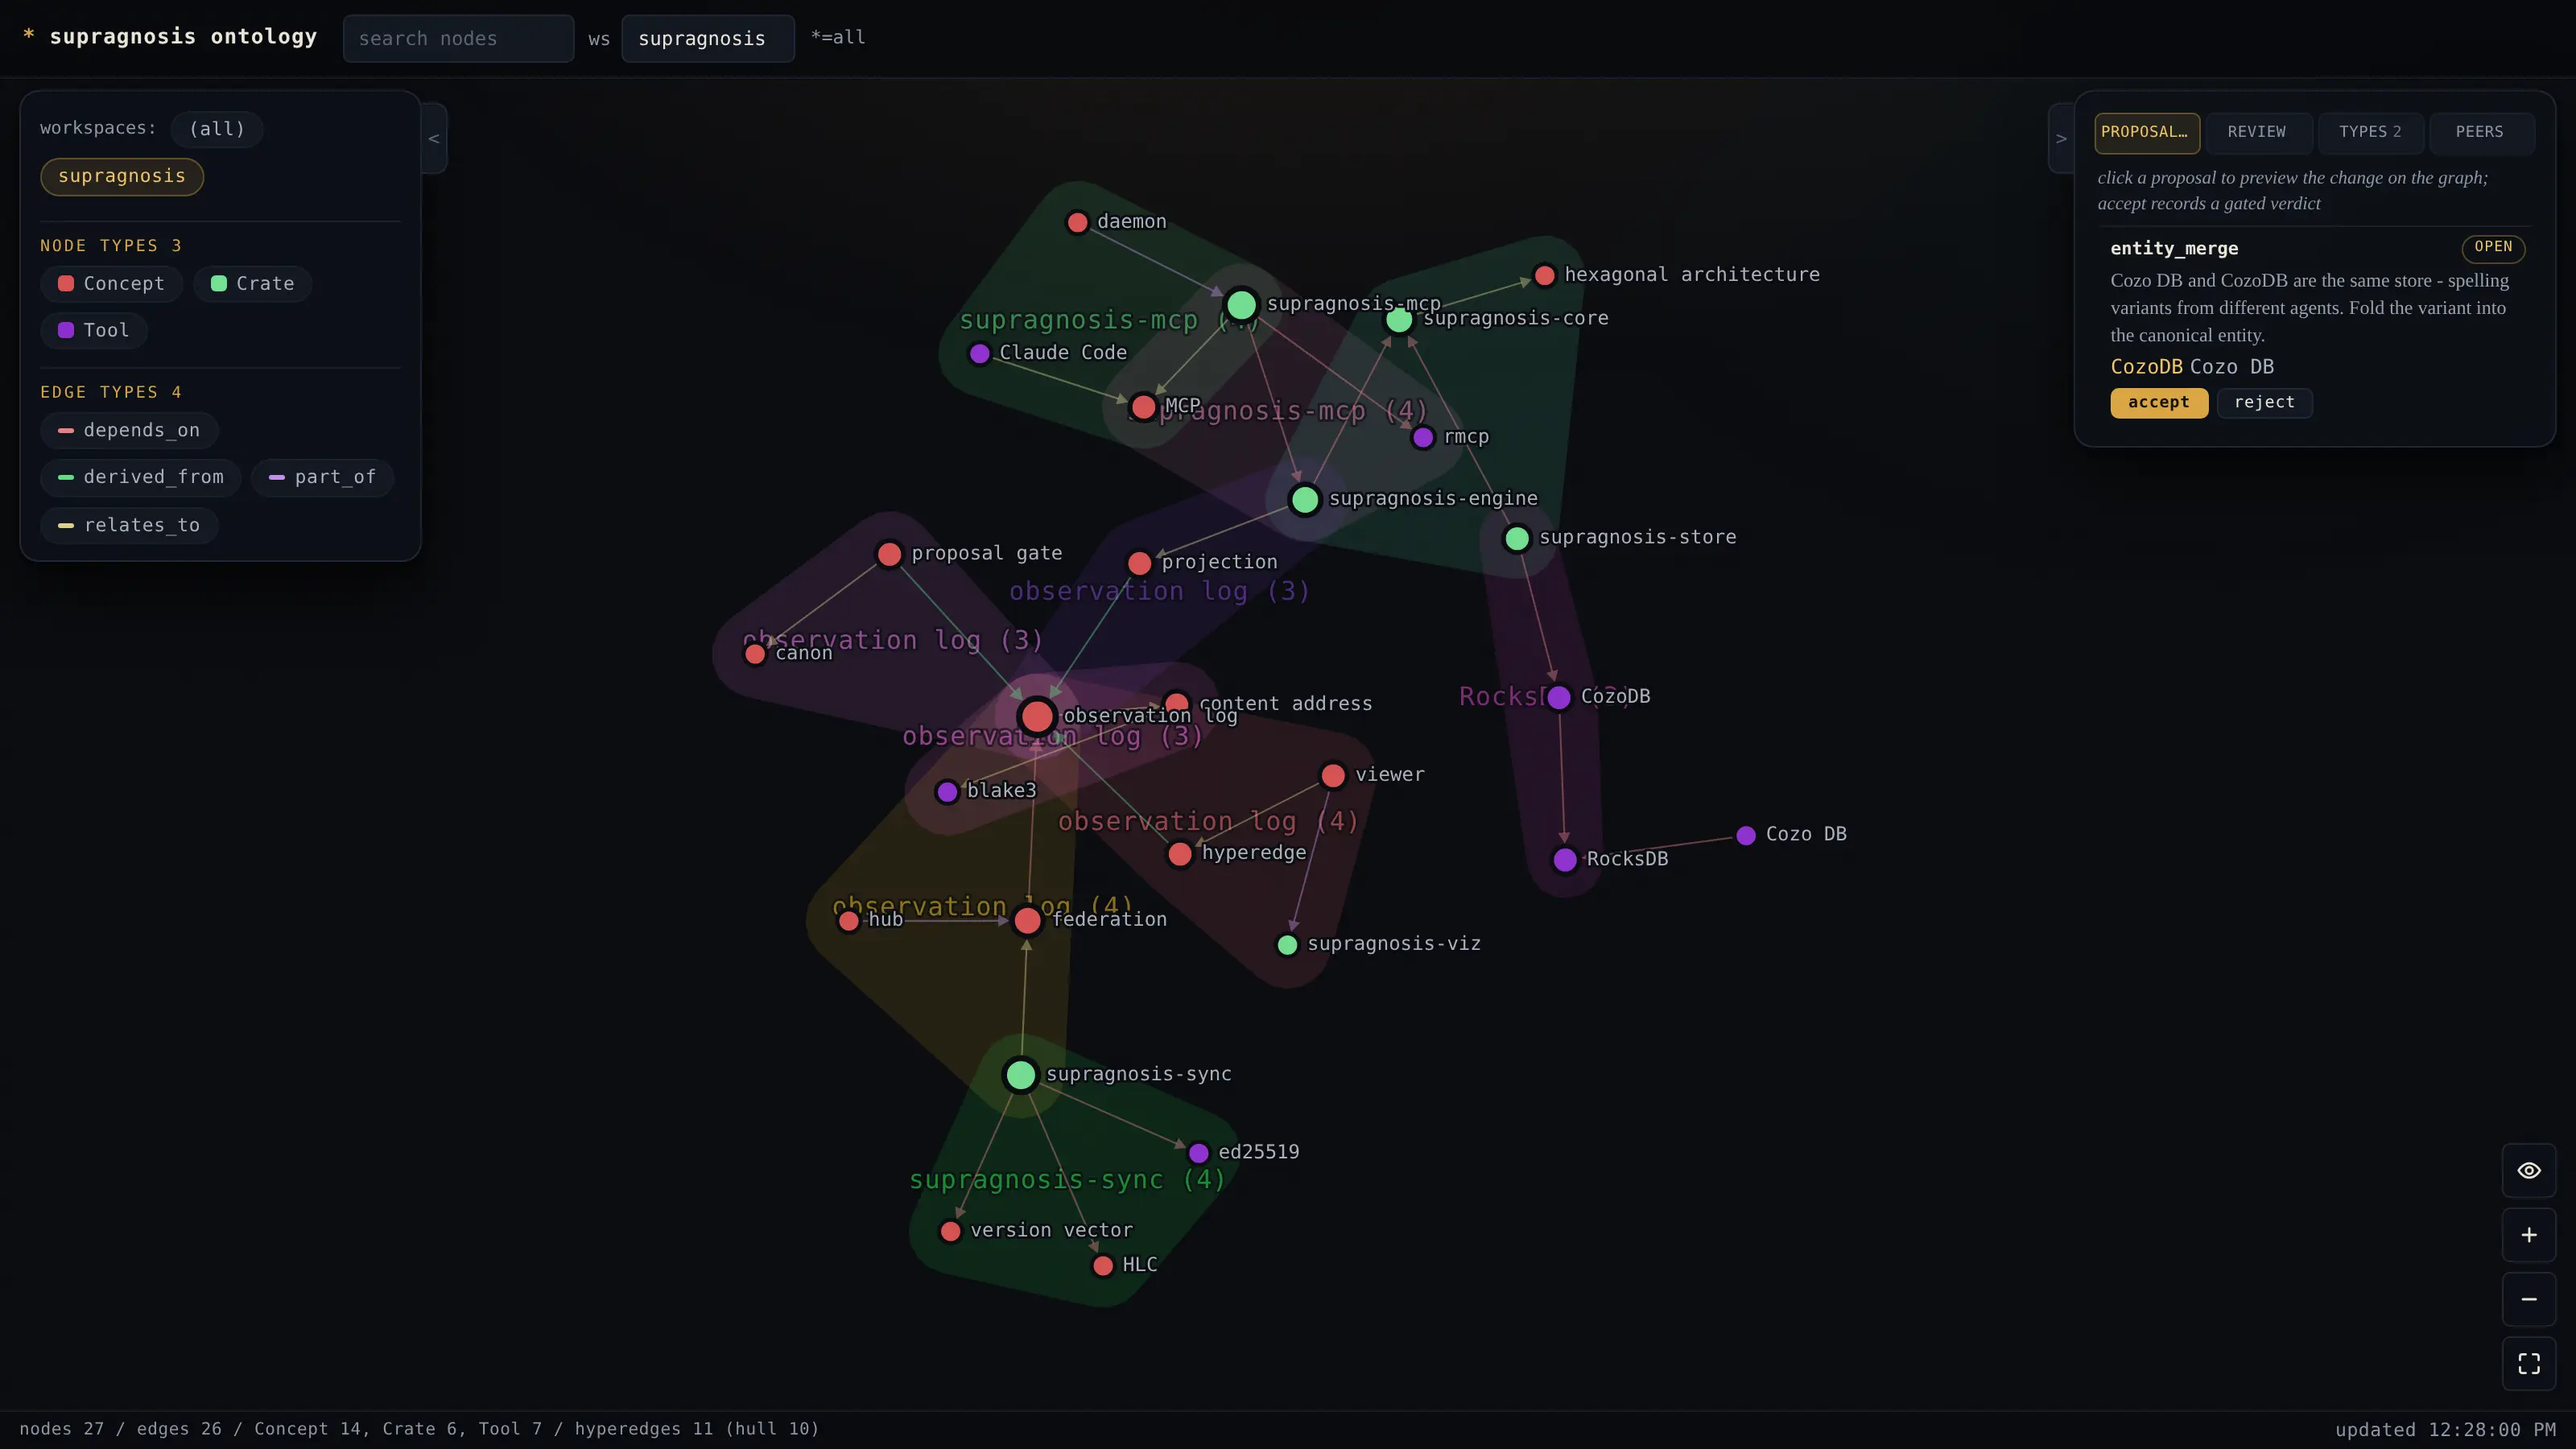
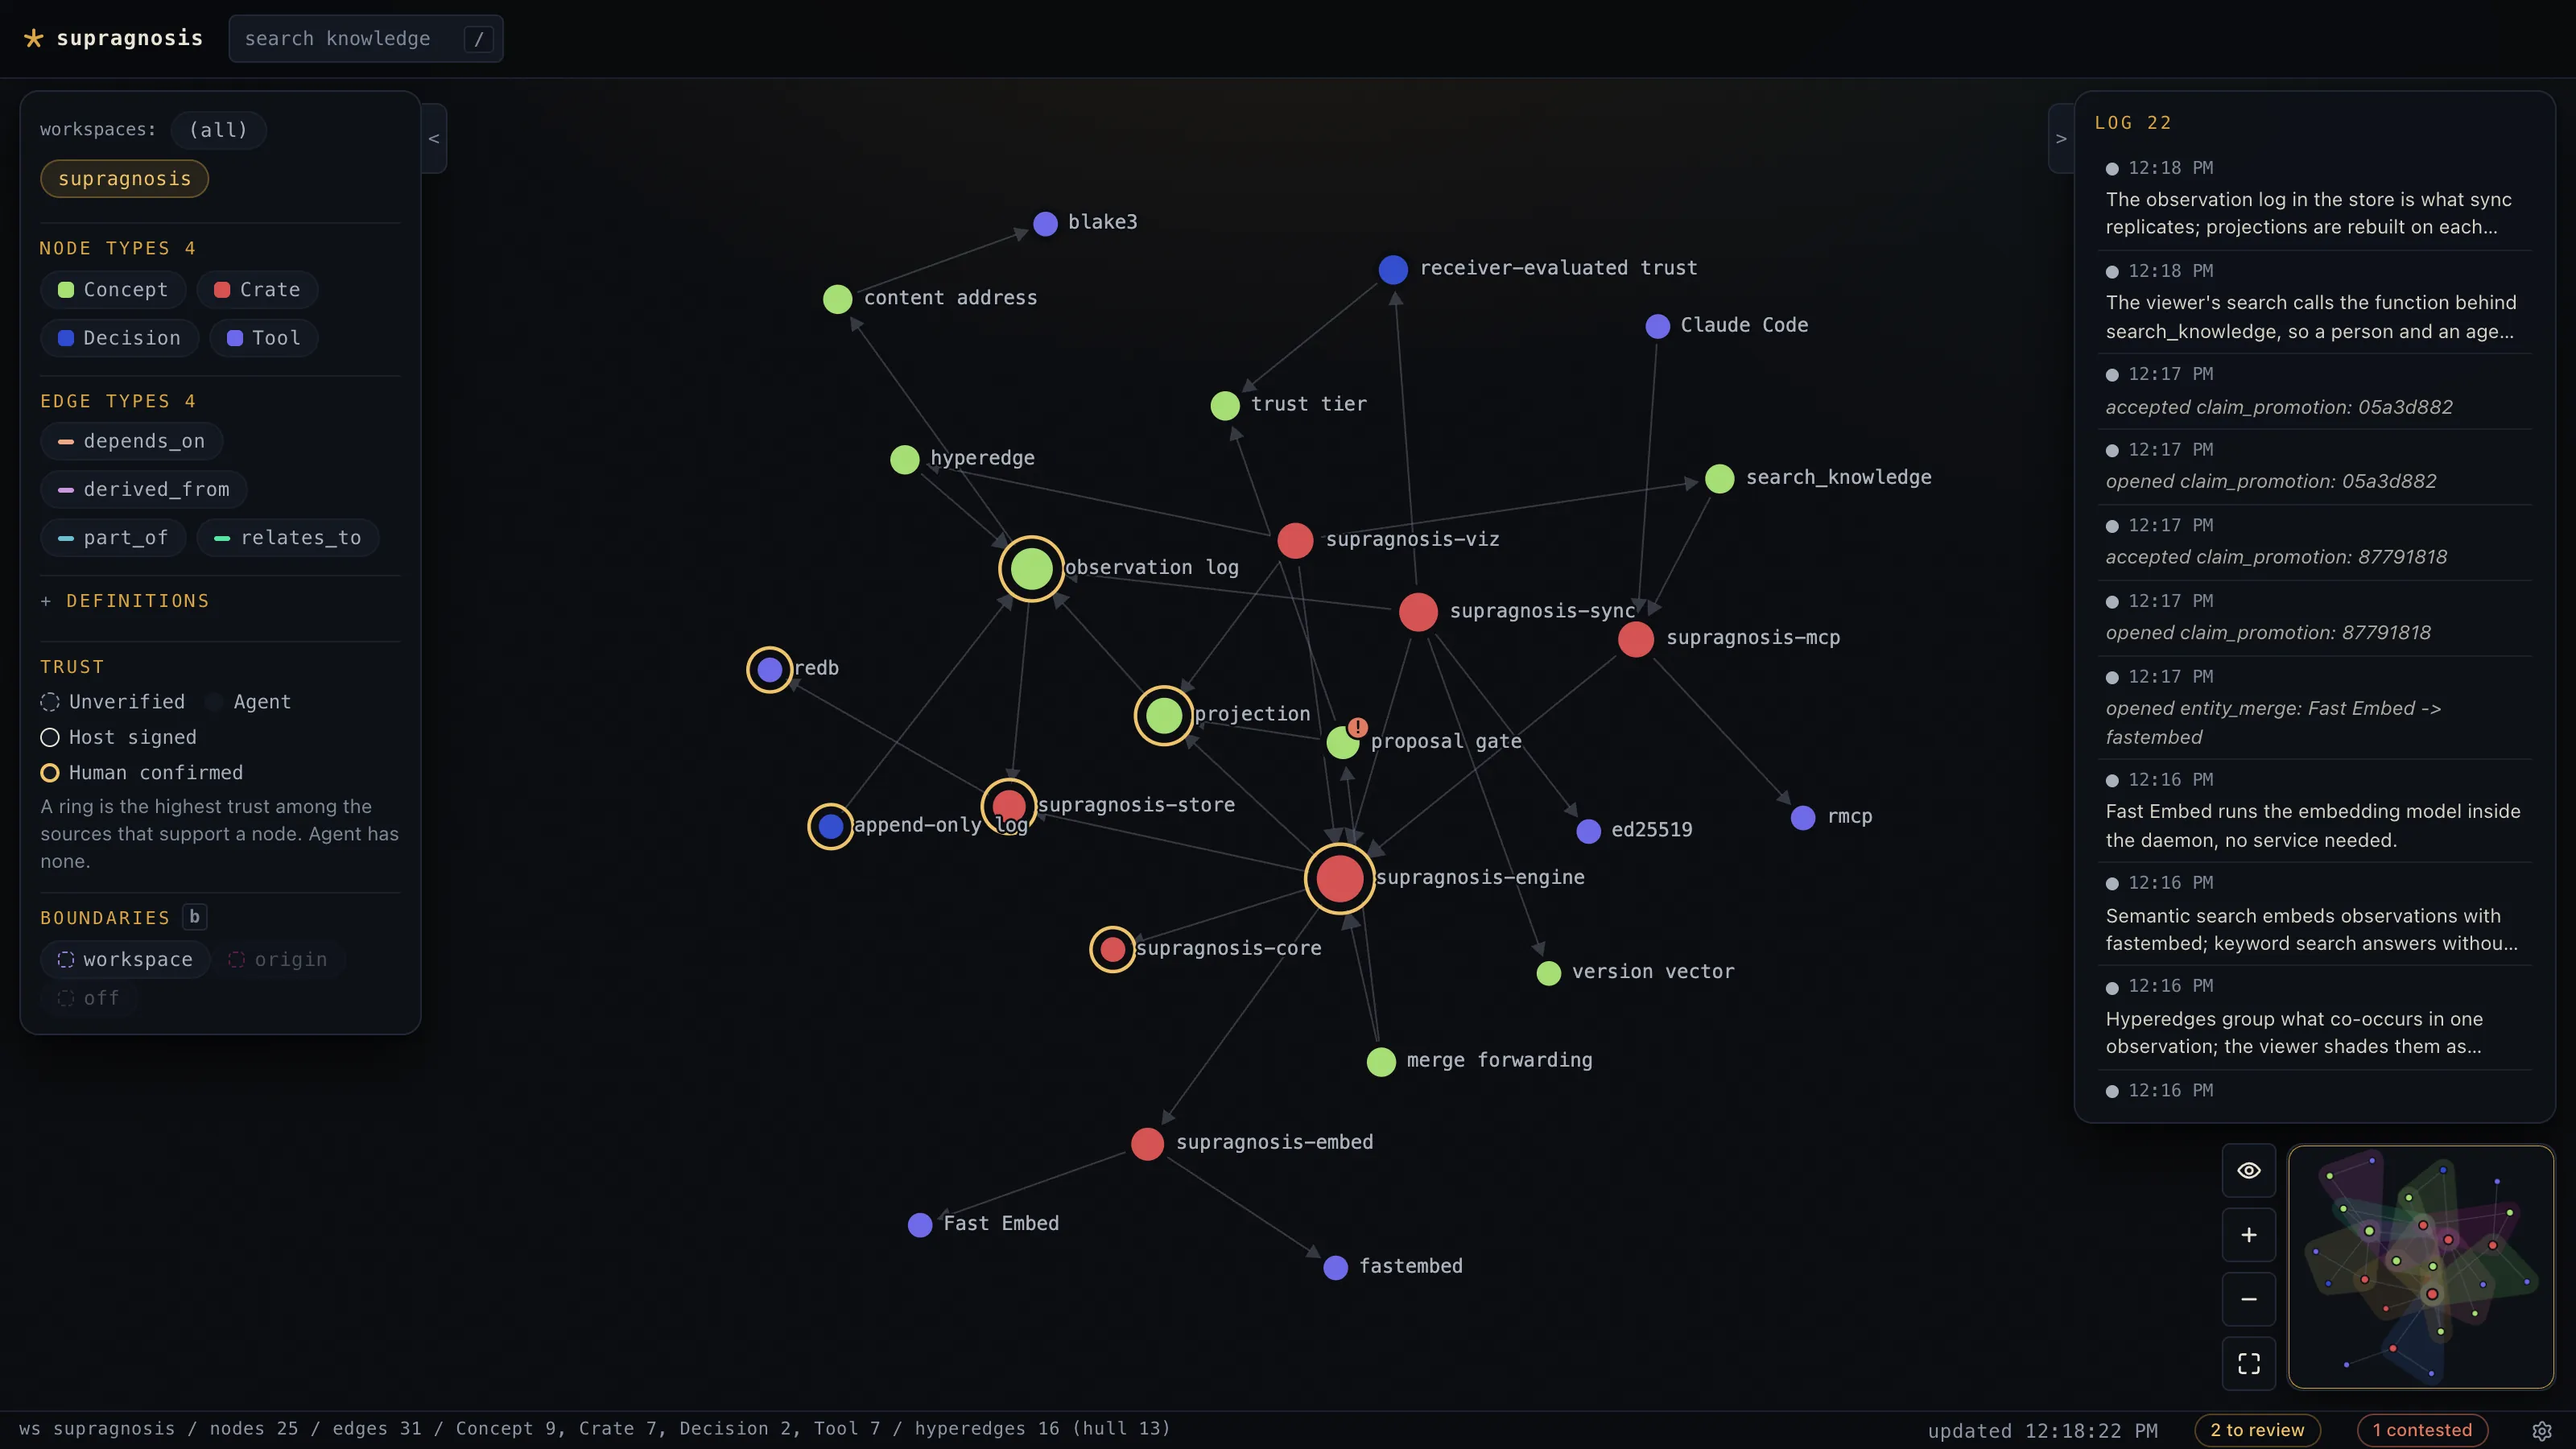
site: the viewer picture shows today's viewer, and the landing says Review
The picture showed the header, docks and tabs the design-system steps
replaced. It is retaken from a made-up store seeded in a fresh home:
rings on what a person confirmed, a contested type, the Log as agents
observe, and the status bar's review and contested counts. The alt
text, the caption and the comment on how to retake it follow.

The landing sent readers to the curation console in three places; the
viewer calls that place the Review page now.

diff --git a/site/index.html b/site/index.html
@@ -144,7 +144,7 @@
           <p>
             Ingest is free; canon is governed. Entity merges, trust promotions,
             and vocabulary changes travel through PR-like proposals that a human
-            reviews in the curation console - and the tier a verdict may grant
+            decides on the viewer's Review page - and the tier a verdict may grant
             depends on the surface it arrives on, so an agent-cast verdict cannot
             reach human-confirmed.
           </p>
@@ -260,21 +260,25 @@ traverse   { "id": "9f41...", "max_depth": 2 }</code></pre>
       <h2>Watch your agents learn.</h2>
       <figure class="shot">
         <div class="terminal-bar"><span class="terminal-title">supragnosis viewer - http over ~/.supragnosis/viz.sock</span></div>
-        <!-- Refreshing this capture: seed a workspace, run
-             `supragnosis serve --viz <sock>`, proxy the socket to TCP, then
-             screenshot 1600x900 @2x (headless Chromium works) and encode webp
-             into assets/viewer.webp. -->
+        <!-- Refreshing this capture: in a fresh HOME, run `supragnosis serve
+             --http <addr> --viz <sock>`, seed one workspace through MCP observe
+             (made-up content only - never a real store), open an entity_merge,
+             confirm a few observations from the viewer so rings show, proxy the
+             socket to TCP, then screenshot 1600x900 @2x (headless Chromium
+             works) and encode webp into assets/viewer.webp. -->
         <img src="assets/viewer.webp" width="1600" height="900" loading="lazy"
-             alt="The live ontology viewer: a force graph of entities and relations
-                  with labeled co-occurrence hulls, a legend of node and edge types
-                  on the left, and the curation console on the right showing an open
-                  entity_merge proposal with accept and reject buttons.">
+             alt="The live ontology viewer: a force graph of entities and relations,
+                  gold rings on the nodes a person has confirmed and a mark on one
+                  whose type is contested; node and edge types and the trust legend
+                  on the left, the Log of observations on the right, and a status
+                  bar counting two items to review and one contested node.">
         <figcaption>
           A seeded workspace in the live viewer: entities land as agents
-          observe, hulls shade co-occurrence contexts, and an entity_merge
-          proposal - two spelling variants of the same store - waits in the
-          curation console for a human verdict. All served on an owner-only
-          unix socket.
+          observe, and the Log lists each observation as it arrives. A ring
+          marks what a person has confirmed, a type two agents disagree on is
+          flagged, and the status bar counts what waits on the Review page -
+          here a merge of two spellings of one library. All served on an
+          owner-only unix socket.
         </figcaption>
       </figure>
     </section>
@@ -342,7 +346,7 @@ traverse   { "id": "9f41...", "max_depth": 2 }</code></pre>
             Ingest is free; promotion is gated. Changes to canon - tier
             promotions, entity merges, T-Box edits, recalls - flow through
             PR-like proposals, and a proposal is itself an observation:
-            signed, replayable, reviewed in the curation console.
+            signed, replayable, decided on the Review page.
           </p>
         </article>
         <article class="card">
@@ -511,7 +515,7 @@ supragnosis connect claude-desktop
           <ul class="checklist">
             <li class="done"><span class="mark">[o]</span><div><strong>M2 - hybrid retrieval.</strong> Keyword search, plus semantic (fastembed ONNX) in a build with that feature; file-backed persistence, stdio MCP + HTTP daemon.</div></li>
             <li class="done"><span class="mark">[o]</span><div><strong>M3a / M3b - resolution.</strong> A replaceable tier-weighted policy computes the current belief and surfaces contested ones; aliases accumulate and forward, and one shared write path makes an incremental write equal a fresh replay.</div></li>
-            <li class="done"><span class="mark">[o]</span><div><strong>M3.5 - proposal gate.</strong> PR-like review in the curation console, with a <em>computed</em> belief diff - what a verdict would overturn, and which references would rewire - and blocking checks the fold enforces, so a merge that cannot commit does not.</div></li>
+            <li class="done"><span class="mark">[o]</span><div><strong>M3.5 - proposal gate.</strong> PR-like review on the viewer's Review page, with a <em>computed</em> belief diff - what a verdict would overturn, and which references would rewire - and blocking checks the fold enforces, so a merge that cannot commit does not.</div></li>
             <li class="done"><span class="mark">[o]</span><div><strong>M4 phases 0-4 - federation.</strong> Hub-and-spoke log replication, ed25519-signed events over TLS, per-node auth, federated retrieval.</div></li>
             <li class="done"><span class="mark">[o]</span><div><strong>Remote servers and the read tier.</strong> One client setup for any server: AI apps reach this machine's daemon or a hub through the bridge. A hub admits principals with per-workspace grants over MCP, and serves its viewer read-only within them (phase 3.5, server side).</div></li>
             <li class="done"><span class="mark">[o]</span><div><strong>MCP prompts.</strong> <code>brief</code>, <code>what-do-we-know-about</code>, <code>curate</code> and <code>review-proposal</code>: a reading of the graph for the person, with the open decisions beside it, cited and never stored.</div></li>
